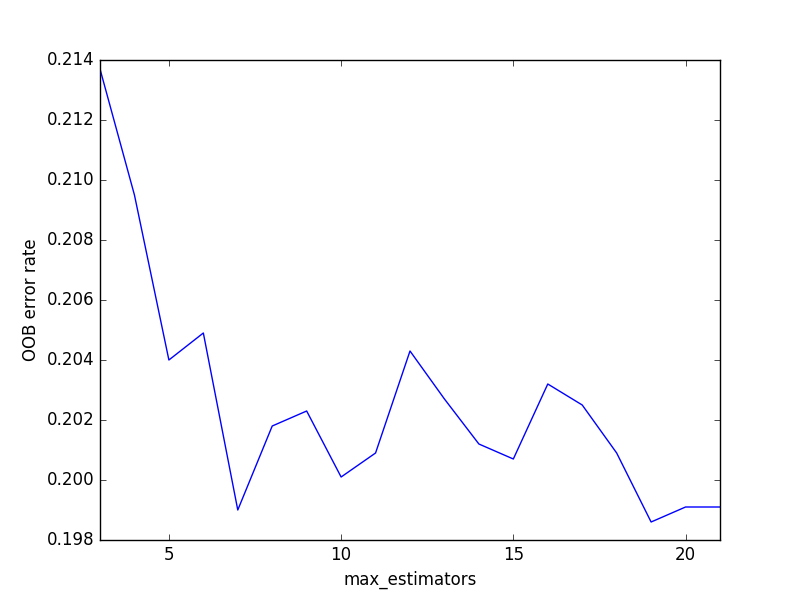
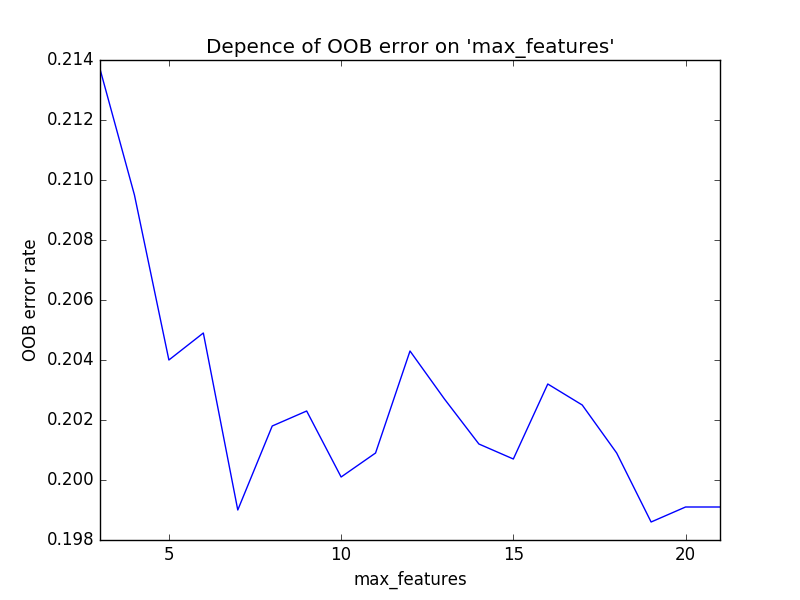
Worked on html

Changed region(s): [[0.25, 0.06, 0.7812, 0.09], [0.4375, 0.96, 0.5938, 0.99]]

diff --git a/templates/rf.html b/templates/rf.html
@@ -1,0 +1,31 @@
+<!DOCTYPE html>
+<html>
+<head>
+    <title>Random forest model</title>
+   <link rel='stylesheet' type='text/css' href='/static/style.css'>
+
+</head>
+<body>
+
+    <h1>Random forest classifier</h1>
+    <div class="div1">
+        Can we use historical data to predict whether or not an ebay listing will sell?
+        Here we attempt to answer that question by modelling the historical data with
+        a random forest. The random forest fits a number of decision trees to the data
+        and averages over the trees to make predictions. In our case...
+    </div>
+
+
+    <h2>Model optimization</h2>
+    <p>
+        This plot shows the dependence of the "out-of-bag" (OOB)
+        error on the number of trees (n_estimator) in the random forest.
+        In general, ra
+    </p>
+    <img src='static/OOB_n_features.png'
+         width="800" height="600">
+    <img src='static/OOB_max_features.png'
+         width="800" height="600">
+
+</body>
+</html>

diff --git a/templates/main.html b/templates/main.html
@@ -7,7 +7,7 @@
 		<link rel="stylesheet" href="https://maxcdn.bootstrapcdn.com/bootstrap/3.3.5/css/bootstrap.min.css">
 		<link rel="stylesheet" href="https://maxcdn.bootstrapcdn.com/bootstrap/3.3.5/css/bootstrap-theme.min.css">
 		<script src="https://maxcdn.bootstrapcdn.com/bootstrap/3.3.5/js/bootstrap.min.js"></script>
-		<link rel=stylesheet type=text/css href='/static/style.css'>
+		<link rel='stylesheet' type='text/css' href='/static/style.css'>
 	</head>
 	<body>
 		<div class=page>

diff --git a/static/style.css b/static/style.css
@@ -29,3 +29,9 @@ body {
 head {
     text-align: left;
 }
+
+div.div1 {
+    max-width:500;
+    margin: auto;
+/*    border: 0px solid #73AD21;*/
+}

diff --git a/app.py b/app.py
@@ -9,14 +9,6 @@ app.vars = {}
 def main():
     return render_template('main.html')
 
-# @app.route('/', methods = ['POST'])
-# def form_POST():
-#     # get the user input
-#     app.vars['ticker'] = request.form['ticker']
-#     app.vars['selected'] = request.form.getlist('features')
-#
-#     return redirect('/plot1')
-
 @app.route('/plot1', methods = ['GET'])
 def plot1():
 
@@ -31,6 +23,10 @@ def plot2():
 def plot3():
 
     return render_template('plot3.html')
+
+@app.route('/rf', methods = ['GET'])
+def rf():
+    return render_template('rf.html')
 
 
 if __name__ == '__main__':

diff --git a/DataAnalysis/RandomForest/plot_ensemble_oob_max_features.py b/DataAnalysis/RandomForest/plot_ensemble_oob_max_features.py
@@ -74,7 +74,7 @@ for label, clf_err in error_rate.items():
     xs, ys = zip(*clf_err)
     plt.plot(xs, ys, label=label)
 
-plt.title("Depence of OOB error on number of features at each branch in tree (max_features)")
+plt.title("Depence of OOB error on 'max_features'")
 plt.xlim(min_par, max_par)
 plt.xlabel("max_features")
 plt.ylabel("OOB error rate")
